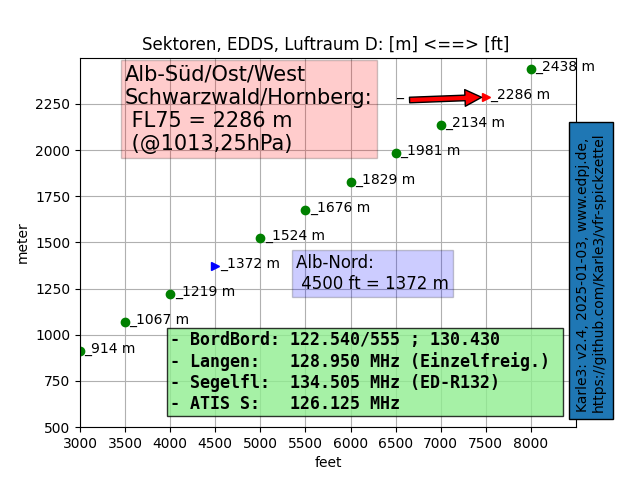
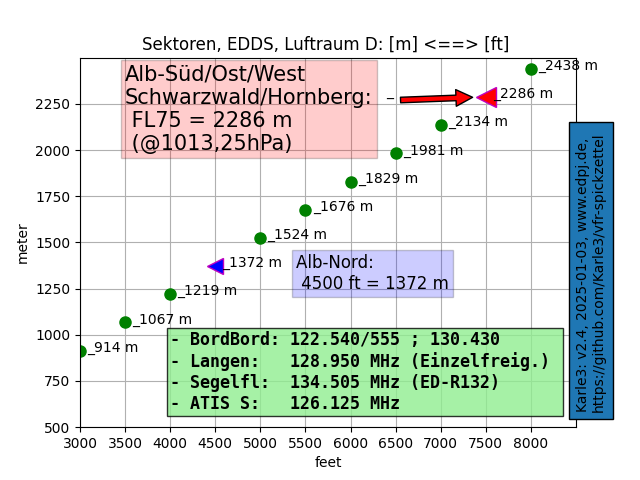
The marker are resized (bigger). Prepare tag V2_4.

diff --git a/vfr_spickzettel_plot.py b/vfr_spickzettel_plot.py
@@ -44,9 +44,11 @@ while FEET <= FEET_MAX:
     METER = FEET * FEET2METER
     if FEET not in (FEET_ALB_NORD, FEET_ALB_SUED) :
         # instead feet != FEET_ALB_NORD and feet != FEET_ALB_SUED :
-        ax.plot(FEET, METER, 'go')
+        #                     vv green circle
+        #                     ||    vv marker size
+        ax.plot(FEET, METER, 'go',  ms = 8)
     # --- Annote value pairs in diagram.
-    ax.annotate(f"_{METER:.0f} m", xy=(FEET +50 , METER -10) )
+    ax.annotate(f"_{METER:.0f} m", xy=(FEET +80 , METER -5) )
     FEET += FEET_STEP
 
 plt.axis((FEET_MIN,FEET_MAX,  METER_MIN,METER_MAX))
@@ -62,22 +64,22 @@ plt.xticks(np.arange(FEET_MIN, FEET_MAX, 1000))
 
 plt.xticks(np.arange(FEET_MIN,  FEET_MAX,  FEET_STEP))
 plt.yticks(np.arange(METER_MIN, METER_MAX, METER_STEP))
-plt.grid(visible=True, which='both')
+plt.grid(visible=True, which='both') # , linewidth = 1.0, color="y") # #808080")
 # plt.minorticks_on(); --- kills ?ticks !!!
 
 
 # Sektoren
 # https://matplotlib.org/stable/gallery/lines_bars_and_markers/categorical_variables.html#sphx-glr-gallery-lines-bars-and-markers-categorical-variables-py
-# https://www.w3schools.com/python/matplotlib_markers.asp
-plt.plot(FEET_ALB_SUED, FEET_ALB_SUED * FEET2METER, 'r>', label="75kFT_2280m_Alb-Süd/Ost")
-plt.plot(FEET_ALB_NORD, FEET_ALB_NORD * FEET2METER, 'b>', label="45kFT_1368_Alb-Nord")
+# https://www.w3schools.com/python/matplotlib_markers.asp                                     v magenta
+plt.plot(FEET_ALB_SUED, FEET_ALB_SUED * FEET2METER, 'r<', markersize = 15, markeredgecolor = 'm', label="75kFT_2280m_Alb-Süd/Ost")
+plt.plot(FEET_ALB_NORD, FEET_ALB_NORD * FEET2METER, 'b<', markersize = 12, markeredgecolor = 'm', label="45kFT_1368_Alb-Nord")
 # show labels in a legend
 # plt.legend()
 
 
 # Alb-S/O__
 Y_POS = FEET2METER  * FEET_ALB_SUED
-plt.annotate('_', xy=(FEET_ALB_SUED, Y_POS), xytext=(6500, Y_POS),
+plt.annotate('_', xy=(FEET_ALB_SUED-100, Y_POS), xytext=(6400, Y_POS),
             arrowprops={"facecolor": 'red', "shrink": 0.05} )
 # arrowprops=dict(facecolor='red', shrink=0.05))
 

diff --git a/README.md b/README.md
@@ -1,5 +1,5 @@
 # vfr-spickzettel
-A cheat sheet for glider pilots flying near Stuttgart airport ([EDDS](https://en.wikipedia.org/wiki/Stuttgart_Airport)), considering glider sectors.
+A cheat sheet for glider pilots [flying](https://en.wikipedia.org/wiki/Visual_flight_rules) near Stuttgart airport ([EDDS](https://en.wikipedia.org/wiki/Stuttgart_Airport)), considering glider sectors.
 
 ## Links
 
@@ -7,7 +7,7 @@ For details refer to [Arbeitskreis Sektoren](https://www.bwlv.de/verband-service
 
 ## Dependencies
 
-* [Python](https://www.python.org/) > 3.6
+* [Python](https://www.python.org/) >= 3.9
 * packages:
   * [numpy](https://numpy.org/), see [w3schools.com](https://www.w3schools.com/python/numpy/default.asp)
   * [matplotlib](https://matplotlib.org), see [w3schools.com](https://www.w3schools.com/python/matplotlib_intro.asp)
